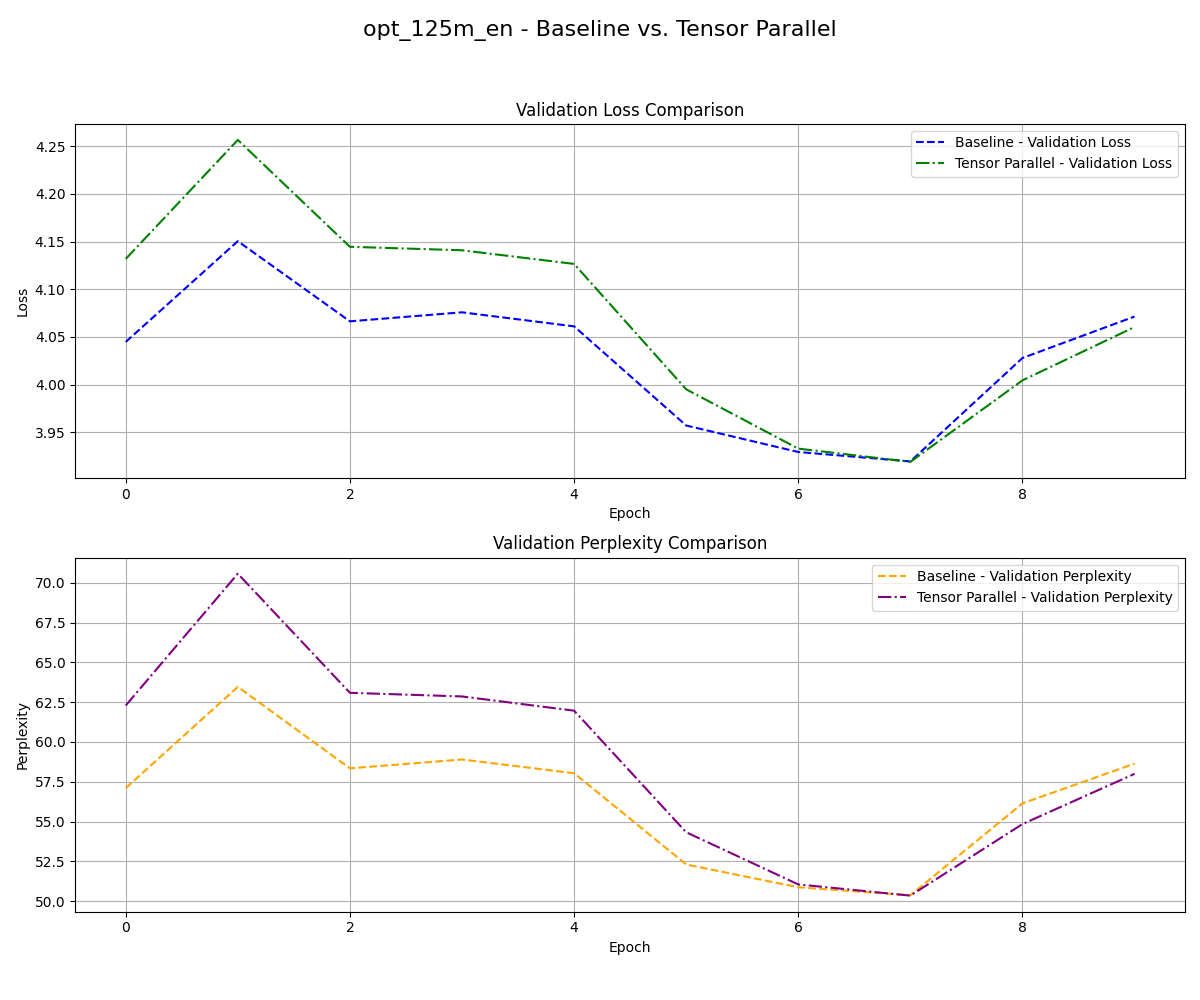
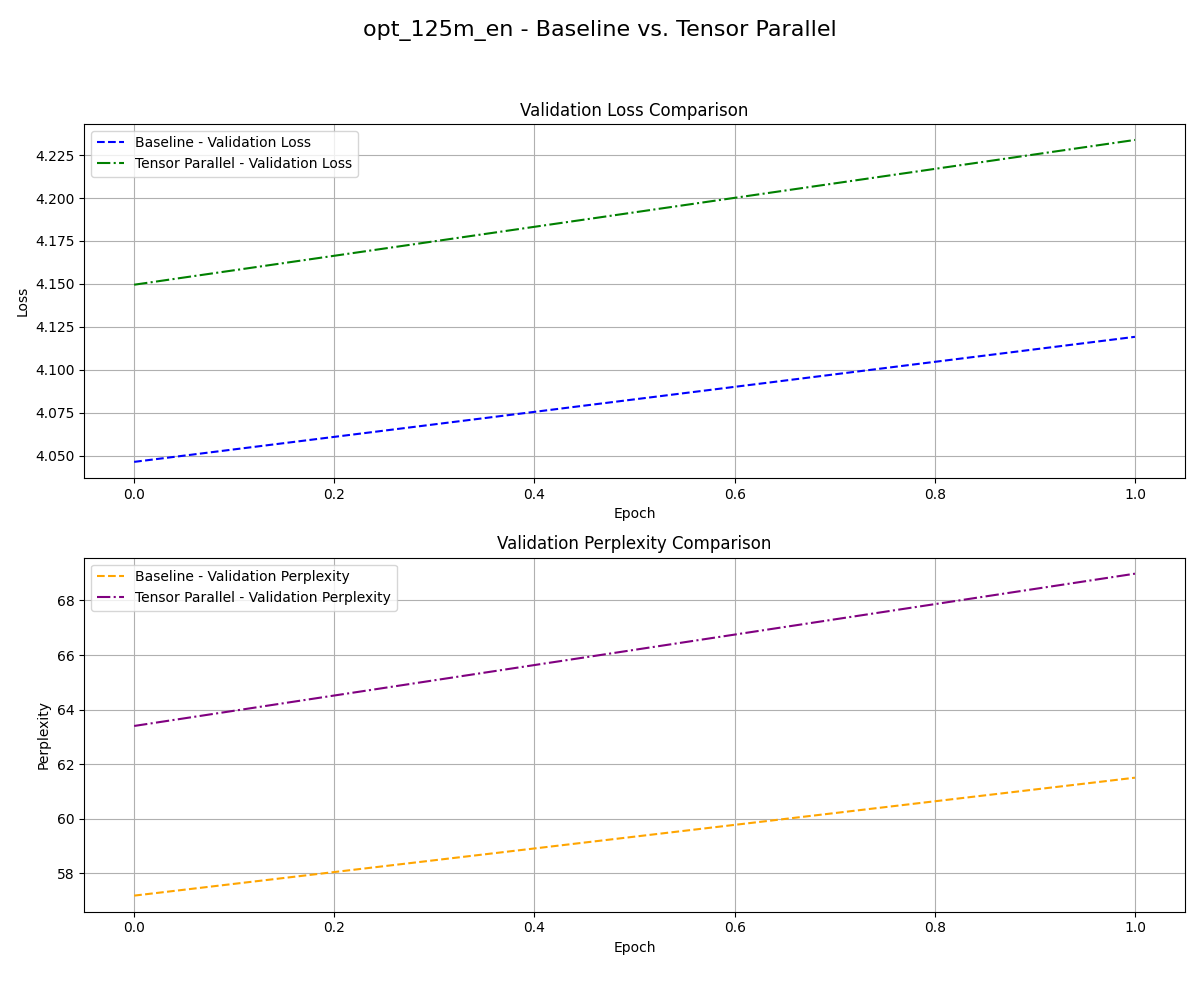
test_models running fine

diff --git a/keras/src/distribution/tensor_parallel/autoconfig.py b/keras/src/distribution/tensor_parallel/autoconfig.py
@@ -8,28 +8,6 @@ from keras.src.distribution.tensor_parallel.state_action_keras import SplitKeras
 # --- 1. Define logger at the top ---
 logger = logging.getLogger(__name__)
 
-# --- 2. Correctly import KerasNLP layers ---
-try:
-    from keras_nlp import layers as knlp_layers
-    from keras_nlp import models as knlp_models
-    
-    KERASNLP_BACKBONES = (knlp_models.GemmaBackbone, knlp_models.GPT2Backbone, knlp_models.OPTBackbone)
-    
-    # A tuple of all MHA types we want to check
-    KERASNLP_MHA_TUPLE = (knlp_layers.CachedMultiHeadAttention)
-    
-    # --- FIX: We also need to explicitly check for PositionEmbedding ---
-    KERASNLP_EMBEDDINGS = (knlp_layers.PositionEmbedding, )
-
-    logger.info("Successfully imported KerasNLP layers for sharding.")
-
-except ImportError:
-    KERASNLP_BACKBONES = ()
-    KERASNLP_MHA_TUPLE = () # Empty tuple
-    KERASNLP_EMBEDDINGS = () # Empty tuple # <-- FIX
-    logger.warning("KerasNLP not found. Sharding will only apply to stock Keras layers.")
-# --- END IMPORTS ---
-
 
 def analyze_dense_layer_directly(layer, module, prefix: str) -> str:
     """
@@ -41,7 +19,6 @@ def analyze_dense_layer_directly(layer, module, prefix: str) -> str:
         return 'generic_dense'
 
     try:
-        # Kernel shape is always (input_dim, output_dim)
         kernel_shape = layer.kernel.shape
         if len(kernel_shape) != 2:
             return 'generic_dense'
@@ -50,7 +27,6 @@ def analyze_dense_layer_directly(layer, module, prefix: str) -> str:
         output_dim = kernel_shape[1]
         
     except Exception:
-        # Layer might not be built, fallback to units
         if hasattr(layer, 'units'):
             output_dim = layer.units
         else:
@@ -82,7 +58,17 @@ def get_default_config_keras(module, device_ids: Sequence[str]) -> ConfigKeras:
     """
     Generates a smart, recursive sharding configuration for a Keras model.
     """
+    """
+    Generates a smart, recursive sharding configuration for a Keras model.
+    """
+    from keras_hub import layers as knlp_layers
+    from keras_hub import models as knlp_models
+
+    logger.info("Successfully imported KerasNLP layers for sharding.")
+
+
     from keras import layers, Model
+    world_size = len(device_ids)
     world_size = len(device_ids)
     state_rules = {}
     output_rules = {}
@@ -154,7 +140,7 @@ def get_default_config_keras(module, device_ids: Sequence[str]) -> ConfigKeras:
             return 
 
         # --- FIX 2: Correct Embedding Logic ---
-        elif isinstance(current_layer, (layers.Embedding,) + KERASNLP_EMBEDDINGS):
+        elif isinstance(current_layer, (layers.Embedding,)):
             # Check if this is a *container* (like TokenAndPositionEmbedding)
             if hasattr(current_layer, 'token_embedding') or hasattr(current_layer, 'position_embedding'):
                 # If it's a container, DON'T shard it.

diff --git a/keras/src/distribution/tensor_parallel/test_models.py b/keras/src/distribution/tensor_parallel/test_models.py
@@ -22,7 +22,7 @@ os.environ["KERAS_BACKEND"] = "jax"
 os.environ["XLA_FLAGS"] = "--xla_force_host_platform_device_count=2"
 
 import jax
-import keras_nlp
+import keras_hub
 import matplotlib.pyplot as plt
 import tensorflow as tf
 import tensorflow_datasets as tfds
@@ -74,13 +74,13 @@ from keras.src.distribution.tensor_parallel.tensor_parallel_keras import (
 BATCH_SIZE = 16
 SEQUENCE_LENGTH = 128
 LEARNING_RATE = 1e-4
-EPOCHS = 10
+EPOCHS = 2
 STEPS_PER_EPOCH = 10
 VALIDATION_STEPS = 5
 LOSS_TOLERANCE = 1e-1 # Set a tolerance for comparing floating point numbers
 
 MODEL_MAPPING = {
-    "opt_1.3b_en": keras_nlp.models.OPTCausalLM,
+    "opt_125m_en": keras_hub.models.OPTCausalLM,
 }
 
 # ----------------------------------------------------------------------
@@ -98,7 +98,7 @@ def load_shakespeare_dataset(model_preset):
         example["text"].decode("utf-8") for example in ds.as_numpy_iterator()
     )
 
-    tokenizer = keras_nlp.models.OPTCausalLM.from_preset(
+    tokenizer = keras_hub.models.OPTCausalLM.from_preset(
         model_preset
     ).preprocessor.tokenizer
     token_ids = tokenizer.tokenize(text)
@@ -248,7 +248,7 @@ def run_model_verification(preset_name, model_class):
         optimizer=keras.optimizers.AdamW(learning_rate=LEARNING_RATE),
         loss=keras.losses.SparseCategoricalCrossentropy(from_logits=True),
         metrics=[
-            keras_nlp.metrics.Perplexity(from_logits=True, name="perplexity")
+            keras_hub.metrics.Perplexity(from_logits=True, name="perplexity")
         ],
     )
 
@@ -280,7 +280,7 @@ def run_model_verification(preset_name, model_class):
         optimizer=keras.optimizers.AdamW(learning_rate=LEARNING_RATE),
         loss=keras.losses.SparseCategoricalCrossentropy(from_logits=True),
         metrics=[
-            keras_nlp.metrics.Perplexity(from_logits=True, name="perplexity")
+            keras_hub.metrics.Perplexity(from_logits=True, name="perplexity")
         ],
     )
 
